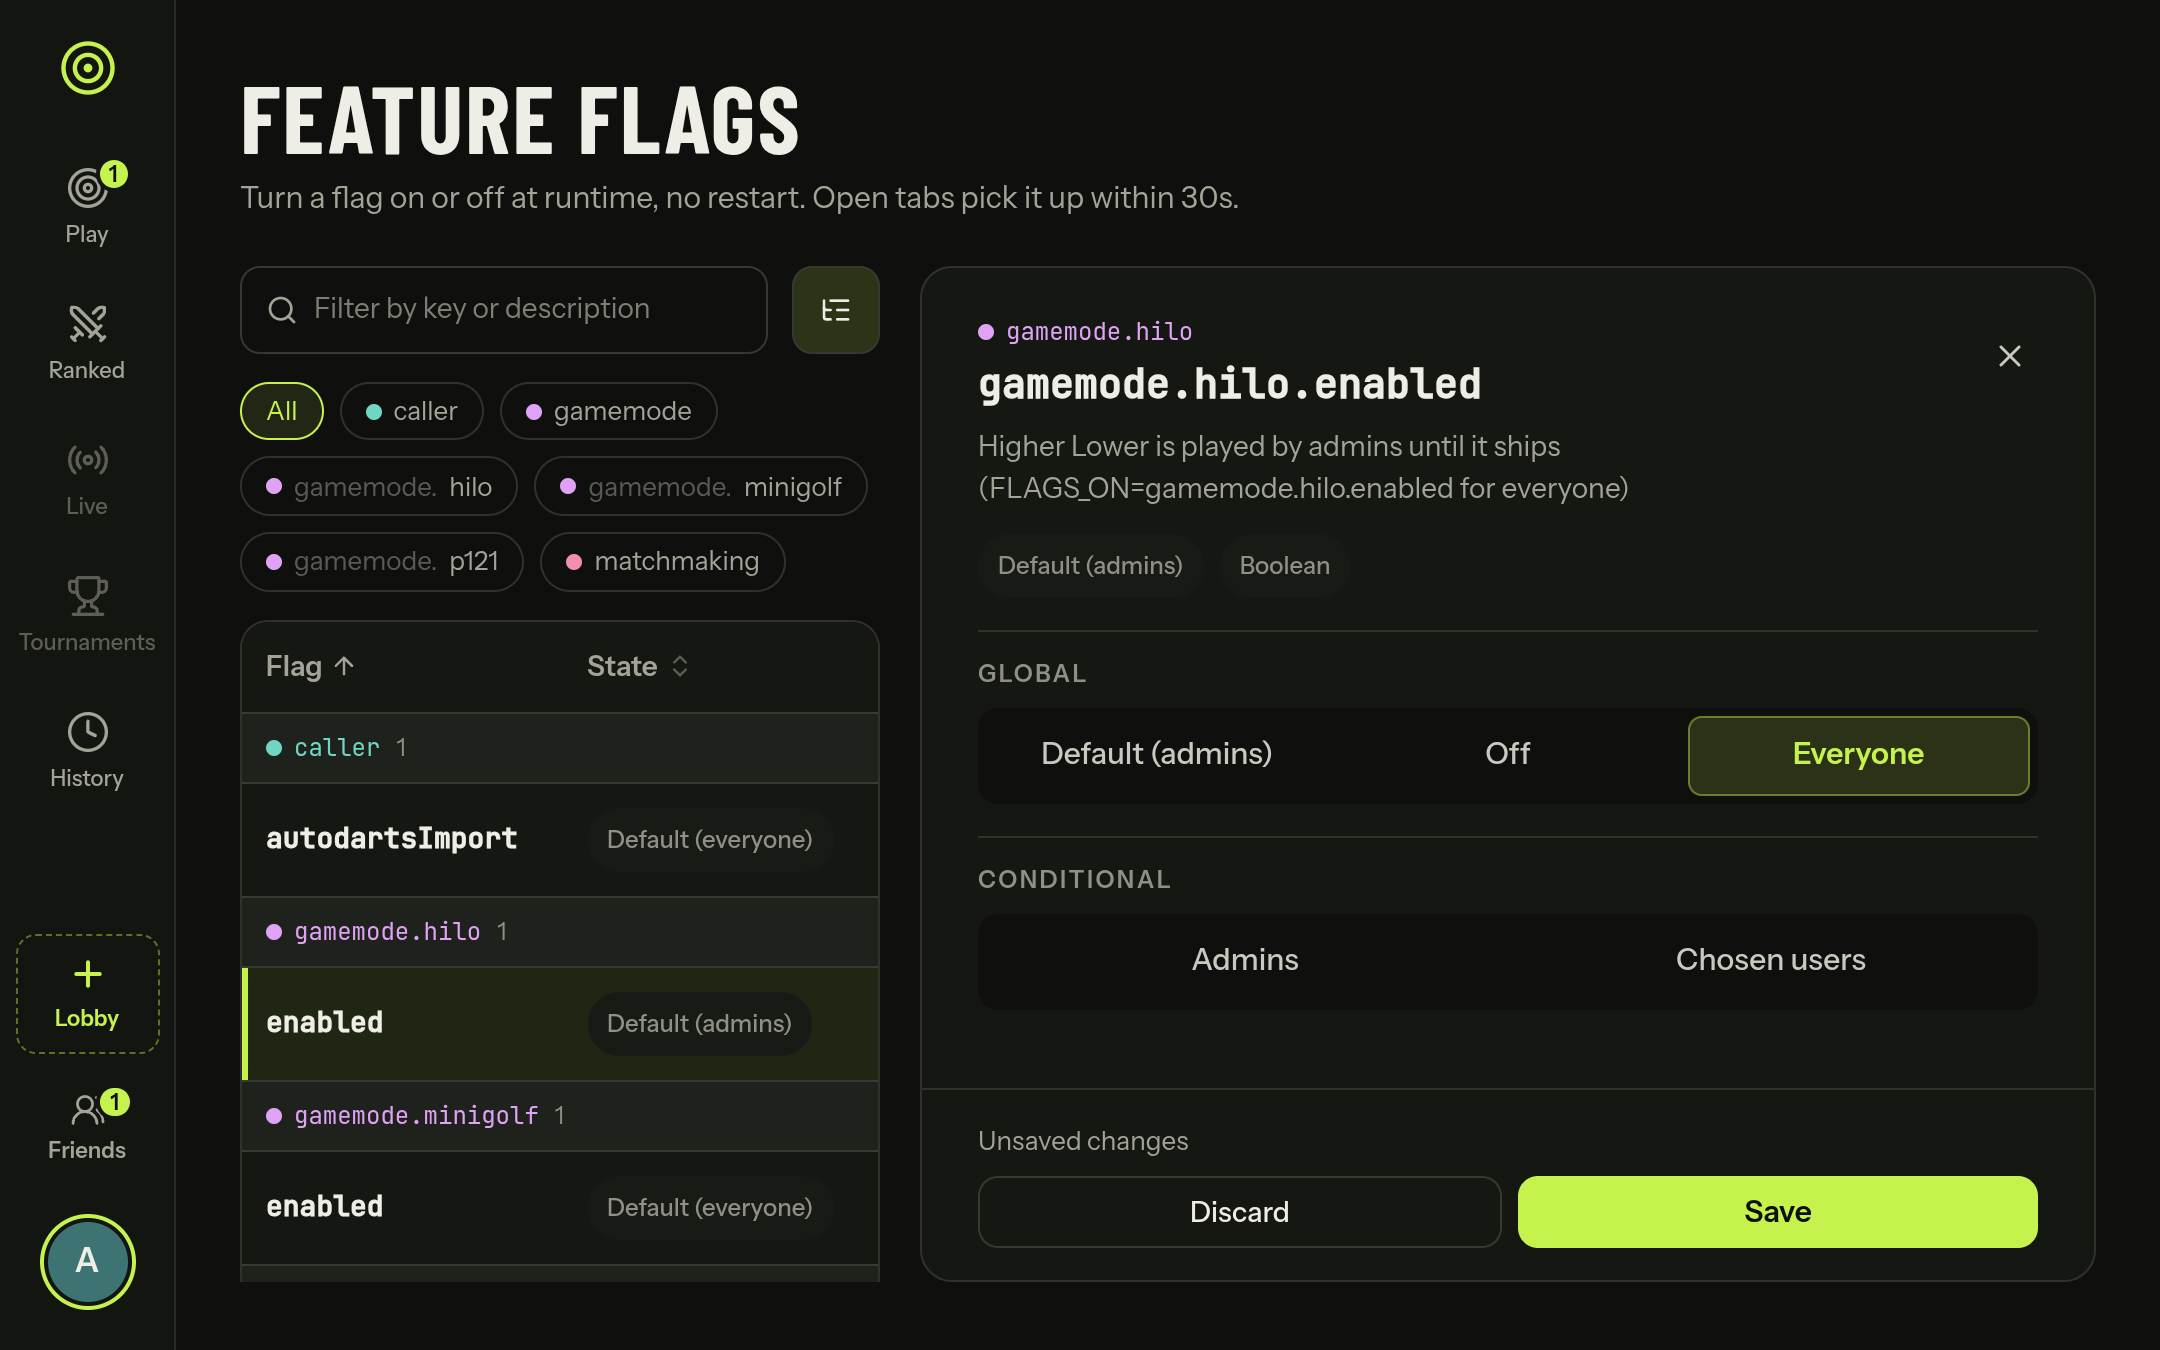
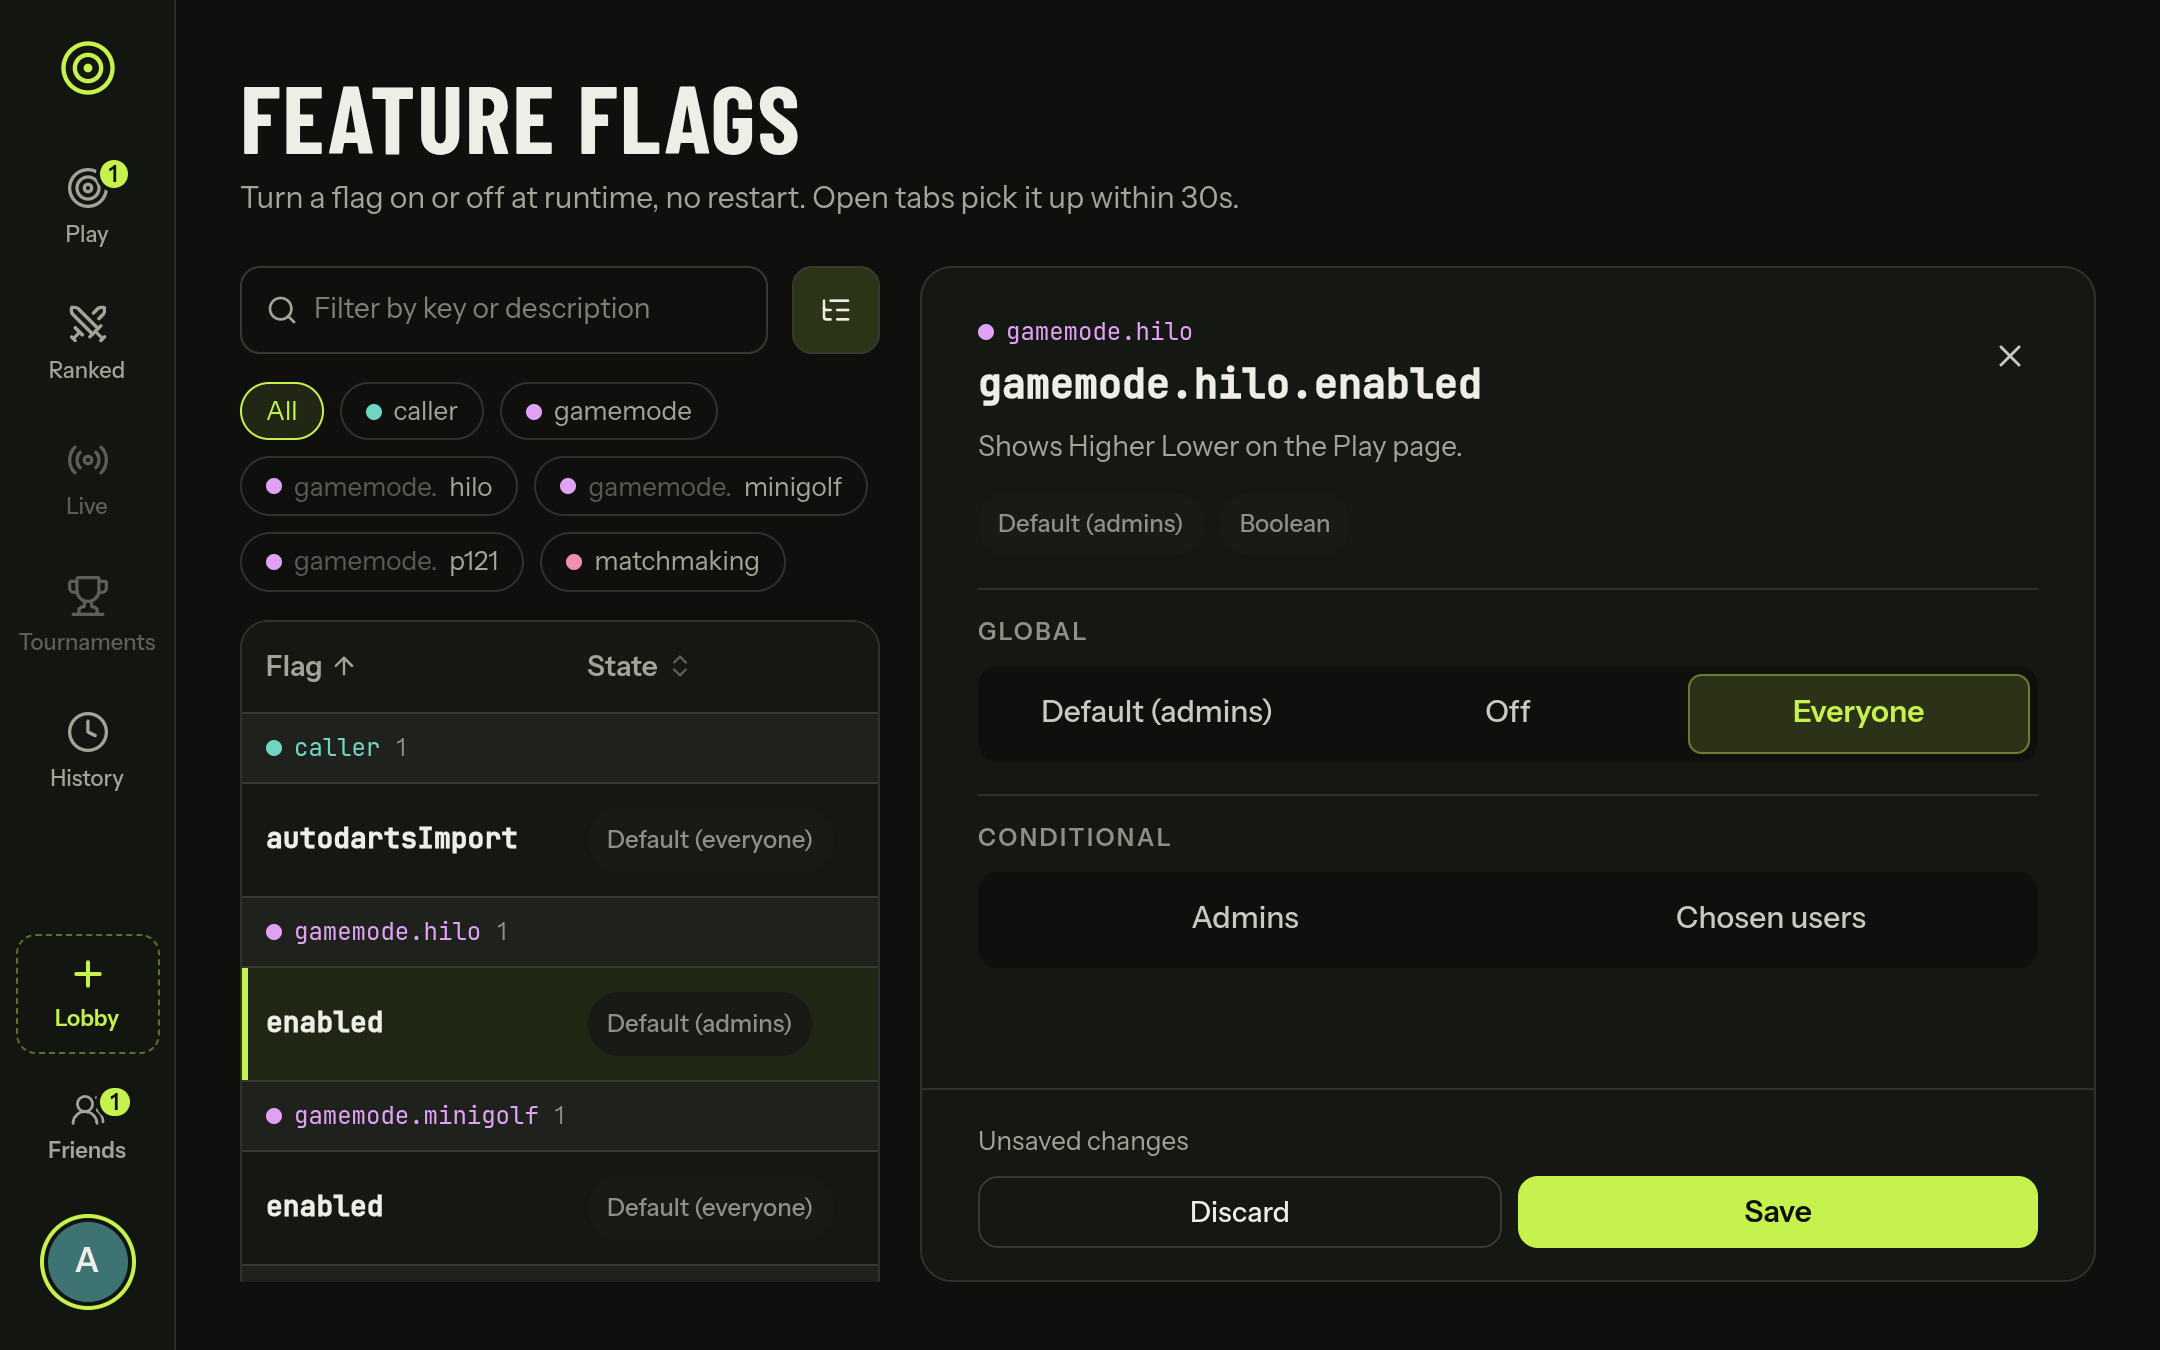
docs(admin): re-shoot the admin pages, say what flag descriptions hold
Claude-Session: https://claude.ai/code/session_01VULn7Ep988Zc1dpFgEAVRi

diff --git a/AGENTS.md b/AGENTS.md
@@ -47,7 +47,7 @@ corrected dart replays the open visit cleanly.
 | Admin hub and its pages: users (promote/demote), feature flags (runtime overrides), system (version, runtime, live counts) | `#/admin` (`routes/Admin.svelte`, `lib/admin/tools.ts`), gated by `isAdmin`/`requireAdmin` (`backend/src/auth/admin.ts`); `#/admin/users` (`routes/AdminUsers.svelte`, `lib/admin/users.ts`, API `backend/src/api/adminUsers.ts`); `#/admin/flags` (`routes/AdminFlags.svelte`, `lib/admin/flags.ts`, API `backend/src/api/adminFlags.ts`); `#/admin/system` (`routes/AdminSystem.svelte`, `lib/admin/system.ts`; API `backend/src/api/system.ts`, data in `backend/src/system/info.ts`) |
 | Version stamp: image build args → `APP_VERSION`/`APP_COMMIT`/`APP_BUILD_TIME` (and `VITE_APP_*` in the SPA) | `backend/Dockerfile`, `.github/workflows/release.yml` (previews: `backend/.sprout.yaml`); public `GET /api/version`; SPA `lib/version.ts` (Settings' version line, `UpdateNotice.svelte`: the stale-tab reload toast) |
 | Code shared by backend and frontend (`$shared/...`) | `backend/src/shared/` (dependency-free, except `minigolf/`, which uses Rapier and polyclip-ts, each pinned to the same version in both packages) |
-| Feature flags (OpenFeature): definitions and per-user rules, OFREP for the SPA | `backend/src/flags/` (`definitions.ts`: add a flag there; `gamemode.<id>.enabled` gates a game mode), `backend/src/api/ofrep.ts`; SPA `backend/frontend/src/lib/flags.ts` (`flag(key)` store), a mode's `flag` in `lib/gameModes.ts`; `FLAGS_ON` turns flags on per deployment; number flags (`numberFlag(key)` in the SPA, the ranked time limit) are set with `FLAG_VALUES`; an admin's runtime override (off/admins/chosen users/everyone, or a number) at `#/admin/flags`, stored in `backend/src/db/flagOverrides.ts`, applied at once by `setOverrides` (`backend/src/flags/index.ts`) |
+| Feature flags (OpenFeature): definitions and per-user rules, OFREP for the SPA | `backend/src/flags/` (`definitions.ts`: add a flag there; `gamemode.<id>.enabled` gates a game mode), `backend/src/api/ofrep.ts`; SPA `backend/frontend/src/lib/flags.ts` (`flag(key)` store), a mode's `flag` in `lib/gameModes.ts`; `FLAGS_ON` turns flags on per deployment; number flags (`numberFlag(key)` in the SPA, the ranked time limit) are set with `FLAG_VALUES`; an admin's runtime override (off/admins/chosen users/everyone, or a number) at `#/admin/flags`, stored in `backend/src/db/flagOverrides.ts`, applied at once by `setOverrides` (`backend/src/flags/index.ts`). Each flag's `description` in `FLAG_META` says what the flag does (shown on `#/admin/flags`); who has it is shown by that page, so don't put `FLAGS_ON` hints in it |
 | Minigolf core: holes, dart → shot, physics (Rapier), courses | `backend/src/shared/minigolf/`; the ground and physics (Rapier's deterministic build) in `backend/src/shared/minigolf/3d/`; admin test bench `#/admin/minigolf` (`routes/MinigolfBench.svelte`, `lib/minigolf/`, `lib/components/minigolf/`, `Hole3D.svelte`); the 3D chase camera in `lib/minigolf/view3d.ts` |
 | Minigolf courses: drafted and published in the DB, read by a game at start | `backend/src/db/minigolfCourses.ts` (migration `021_minigolf_courses.sql`, `seedOfficialCourses` at startup), API in `backend/src/api/minigolfCourses.ts`; a game reads the published course through `backend/src/games/minigolfCourseSource.ts` (`GameModule.prepareConfig`/`liveOptions`, `backend/src/session/types.ts`); the editor `routes/MinigolfCourses.svelte` (courses) and `routes/MinigolfHoleEditor.svelte` (holes), pieces in `lib/minigolf/editor/` (`shapeOps.ts`: editing a hole's optional circles and curved edges) and `lib/components/minigolf/editor/`, test-putt in `lib/components/minigolf/Playtest.svelte`; baking a hole's editable shape (circles, curved edges) into its plain outline is `backend/src/shared/minigolf/bake.ts` |
 | Minigolf checks (what Publish enforces) and the hole-testing bot | `backend/src/shared/minigolf/checks.ts`; the bot that plays a hole in `backend/src/shared/minigolf/bot.ts`, run from the editor in a worker at `lib/minigolf/editor/botWorker.ts` |
